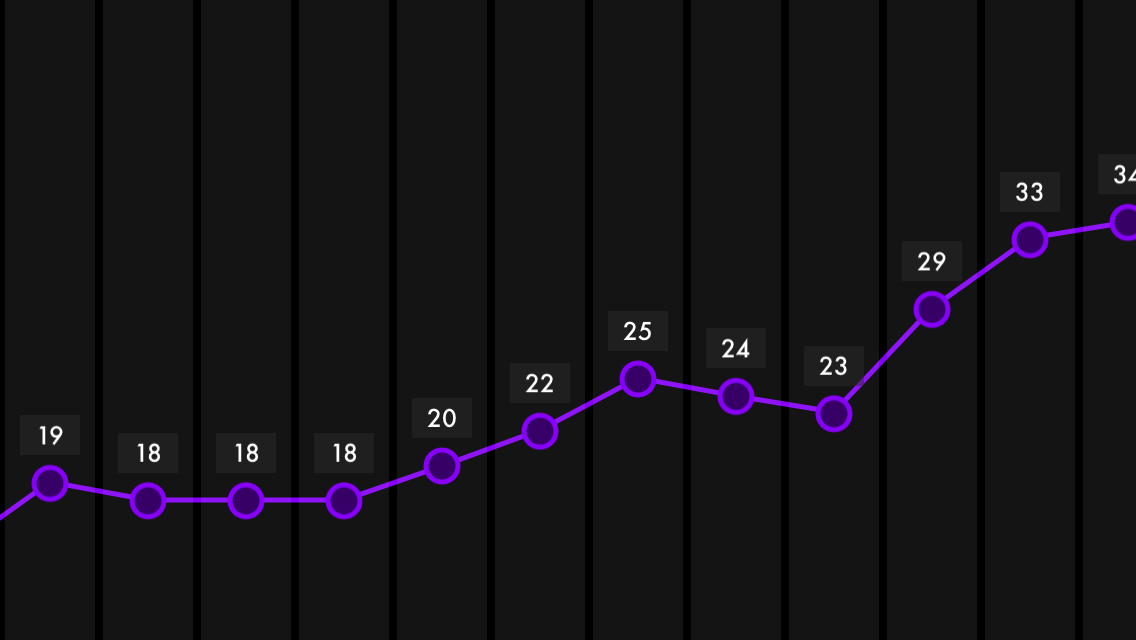
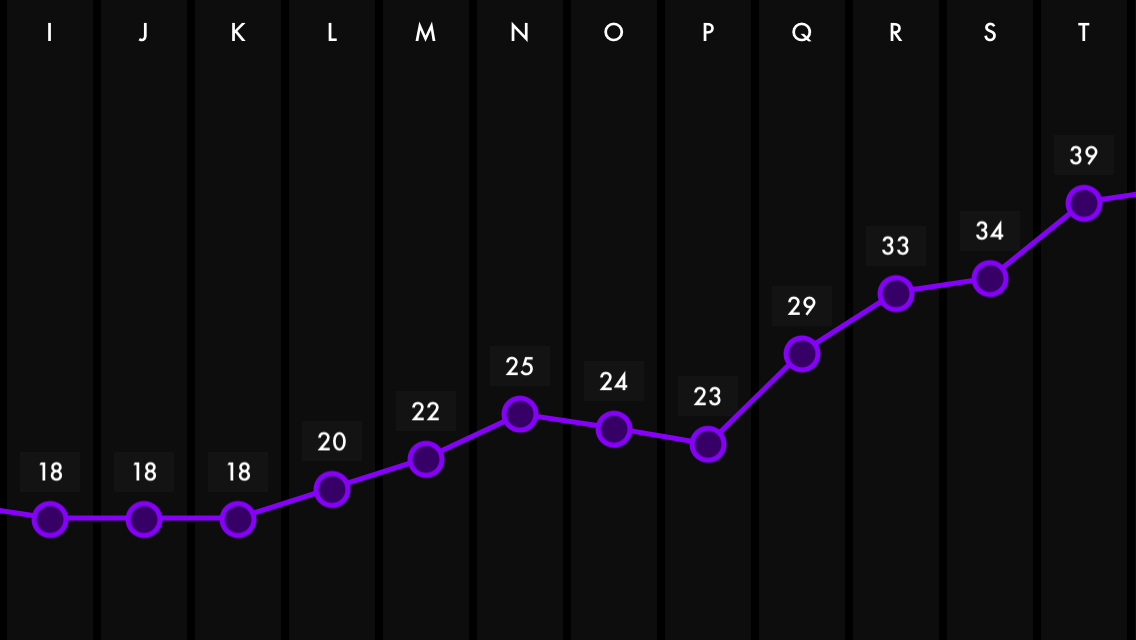
Added xAxis labels

diff --git a/JYGraphViewController/JYGraphViewController/JYGraphViewController.m b/JYGraphViewController/JYGraphViewController/JYGraphViewController.m
@@ -12,7 +12,7 @@
 NSUInteger const graphWidth = 1136;
 NSUInteger const graphHeight = 320;
 NSUInteger const gapBetweenBackgroundVerticalBars = 4;
-float const percentageOfScreenHeightToUse = 0.87;
+float const percentageOfScreenHeightToUse = 0.8f;
 NSInteger const pointLabelOffsetFromPointCenter = -24;
 
 @interface JYGraphViewController ()
@@ -88,7 +88,7 @@ NSInteger const pointLabelOffsetFromPointCenter = -24;
         CGPoint point = CGPointMake(xCoord,
                                     graphHeight - (([[_graphData objectAtIndex:counter - 1] integerValue] * ((graphHeight * percentageOfScreenHeightToUse) / range)) - (lowest * ((graphHeight * percentageOfScreenHeightToUse) / range ))));
         
-        [self createBackgroundVerticalBarWithXCoord:point];
+        [self createBackgroundVerticalBarWithXCoord:point withXAxisLabelIndex:counter-1];
         
         [self createPointLabelForPoint:point withLabelText:[NSString stringWithFormat:@"%@",[_graphData objectAtIndex:counter - 1]]];
                 
@@ -142,7 +142,7 @@ NSInteger const pointLabelOffsetFromPointCenter = -24;
     [tempLabel setText:string];
 }
 
-- (void) createBackgroundVerticalBarWithXCoord:(CGPoint)xCoord
+- (void) createBackgroundVerticalBarWithXCoord:(CGPoint)xCoord withXAxisLabelIndex:(NSInteger)indexNumber
 {
     UILabel *label = [[UILabel alloc] initWithFrame:CGRectMake(0 , 0, (graphWidth / [_graphData count]) - gapBetweenBackgroundVerticalBars, graphHeight * 2)];
     
@@ -154,9 +154,13 @@ NSInteger const pointLabelOffsetFromPointCenter = -24;
     [label setMinimumScaleFactor:0.6];
     [label setFont:[UIFont fontWithName:@"Futura-Medium" size:12]];
     
+    if (self.graphXAxisLabels) {
+        label.text = [NSString stringWithFormat:@"%@",[self.graphXAxisLabels objectAtIndex:indexNumber]];
+    }
+    
     [_graphView addSubview:label];
     
-    [label setCenter:CGPointMake(xCoord.x,0)];
+    [label setCenter:CGPointMake(xCoord.x,16)];
 }
 
 - (void) drawLineBetweenPoint:(CGPoint)origin andPoint:(CGPoint)destination withColour:(UIColor *)colour
@@ -221,8 +225,8 @@ NSInteger const pointLabelOffsetFromPointCenter = -24;
 - (void) didRotate
 {
     if ([UIDevice currentDevice].orientation == UIDeviceOrientationPortrait) {
-        [self.presentingViewController dismissViewControllerAnimated:YES completion:nil];
         [[UIDevice currentDevice] endGeneratingDeviceOrientationNotifications];
+        [self.presentingViewController dismissViewControllerAnimated:YES completion:nil];
     }
 }
 

diff --git a/JYGraphViewController/JYGraphViewController/JYGraphMenuViewController.m b/JYGraphViewController/JYGraphViewController/JYGraphMenuViewController.m
@@ -58,7 +58,6 @@
 {
     [super viewDidLoad];
     // Do any additional setup after loading the view from its nib.
-    [_slider addTarget:self action:@selector(updateLabel) forControlEvents:UIControlEventValueChanged];
 }
 
 - (void) viewDidAppear:(BOOL)animated
@@ -112,6 +111,23 @@
     return [NSArray arrayWithArray:arrayToPass];
 }
 
+- (NSArray *) createXAxisLabelArray
+{
+    NSMutableArray *mutableArray = [NSMutableArray new];
+    
+    NSInteger sliderValue = (int)_slider.value;
+    
+    NSString *alphabet = @"abcdefghijklmnopqrstuvwxyz";
+    
+    for (int x = 0; x <= sliderValue ; x++) {
+        NSRange range = NSMakeRange(x, 1);
+        NSString *letter = [[alphabet substringWithRange:range] uppercaseString];
+        [mutableArray addObject:letter];
+    }
+    
+    return [NSArray arrayWithArray:mutableArray];
+}
+
 #pragma mark - Rotation methods (required)
 
 - (void) didRotate
@@ -127,12 +143,18 @@
         // Send only an array of number values
         graphView.graphData = [self createArrayToPassToGraph];
         
+        // Set the xAxis labels
+        // Can send numbers or strings (it's printed using stringWithFormat:"%@")
+        graphView.graphXAxisLabels = [self createXAxisLabelArray];
+        
         // Set the colours for the stroke and fill
         // If not set, default green values will be used
         graphView.graphFillColour = [UIColor colorWithRed:0.21f green:0.00f blue:0.40f alpha:1.0f];
         graphView.graphStrokeColour = [UIColor colorWithRed:0.53f green:0.00f blue:0.98f alpha:1.0f];
         
-        [self presentViewController:graphView animated:YES completion:nil];
+        if (![self.presentedViewController isBeingPresented]) {
+            [self presentViewController:graphView animated:YES completion:nil];
+        }
     }
 }
 
@@ -151,11 +173,6 @@
 }
 
 #pragma mark - Label and notifications
-
-- (void) updateLabel
-{
-    _textLabel.text = [NSString stringWithFormat:@"%ld values being passed to graph. Rotate to display.",(long)_slider.value];
-}
 
 - (void) keyboardUp: (NSNotification *) notification
 {

diff --git a/JYGraphViewController/JYGraphViewController/JYGraphViewController.h b/JYGraphViewController/JYGraphViewController/JYGraphViewController.h
@@ -11,8 +11,8 @@
 @interface JYGraphViewController : UIViewController
 
 @property (strong, nonatomic) NSArray *graphData;
+@property (strong, nonatomic) NSArray *graphXAxisLabels;
 @property (strong, nonatomic) UIColor *graphStrokeColour;
 @property (strong, nonatomic) UIColor *graphFillColour;
-
 
 @end

diff --git a/README.md b/README.md
@@ -14,6 +14,7 @@ Grab:
 
 * JYGraphViewController.h
 * JYGraphViewController.m
+* JYGraphViewController.xib
 * JYGraphPoint.h
 * JYGraphPoint.m
 
@@ -32,6 +33,10 @@ JYGraphViewController *graphView = [[JYGraphViewController alloc] initWithNibNam
 // Set the data for the graph
 // Send only an array of number values
 graphView.graphData = [self createArrayOfNumbersToPassToGraph];
+
+// Set the xAxis labels (optional)
+// Can send numbers or strings (it's printed using stringWithFormat:"%@")
+graphView.graphXAxisLabels = [self createXAxisLabelArray];
 
 [self presentViewController:graphView animated:YES completion:nil];
     }
